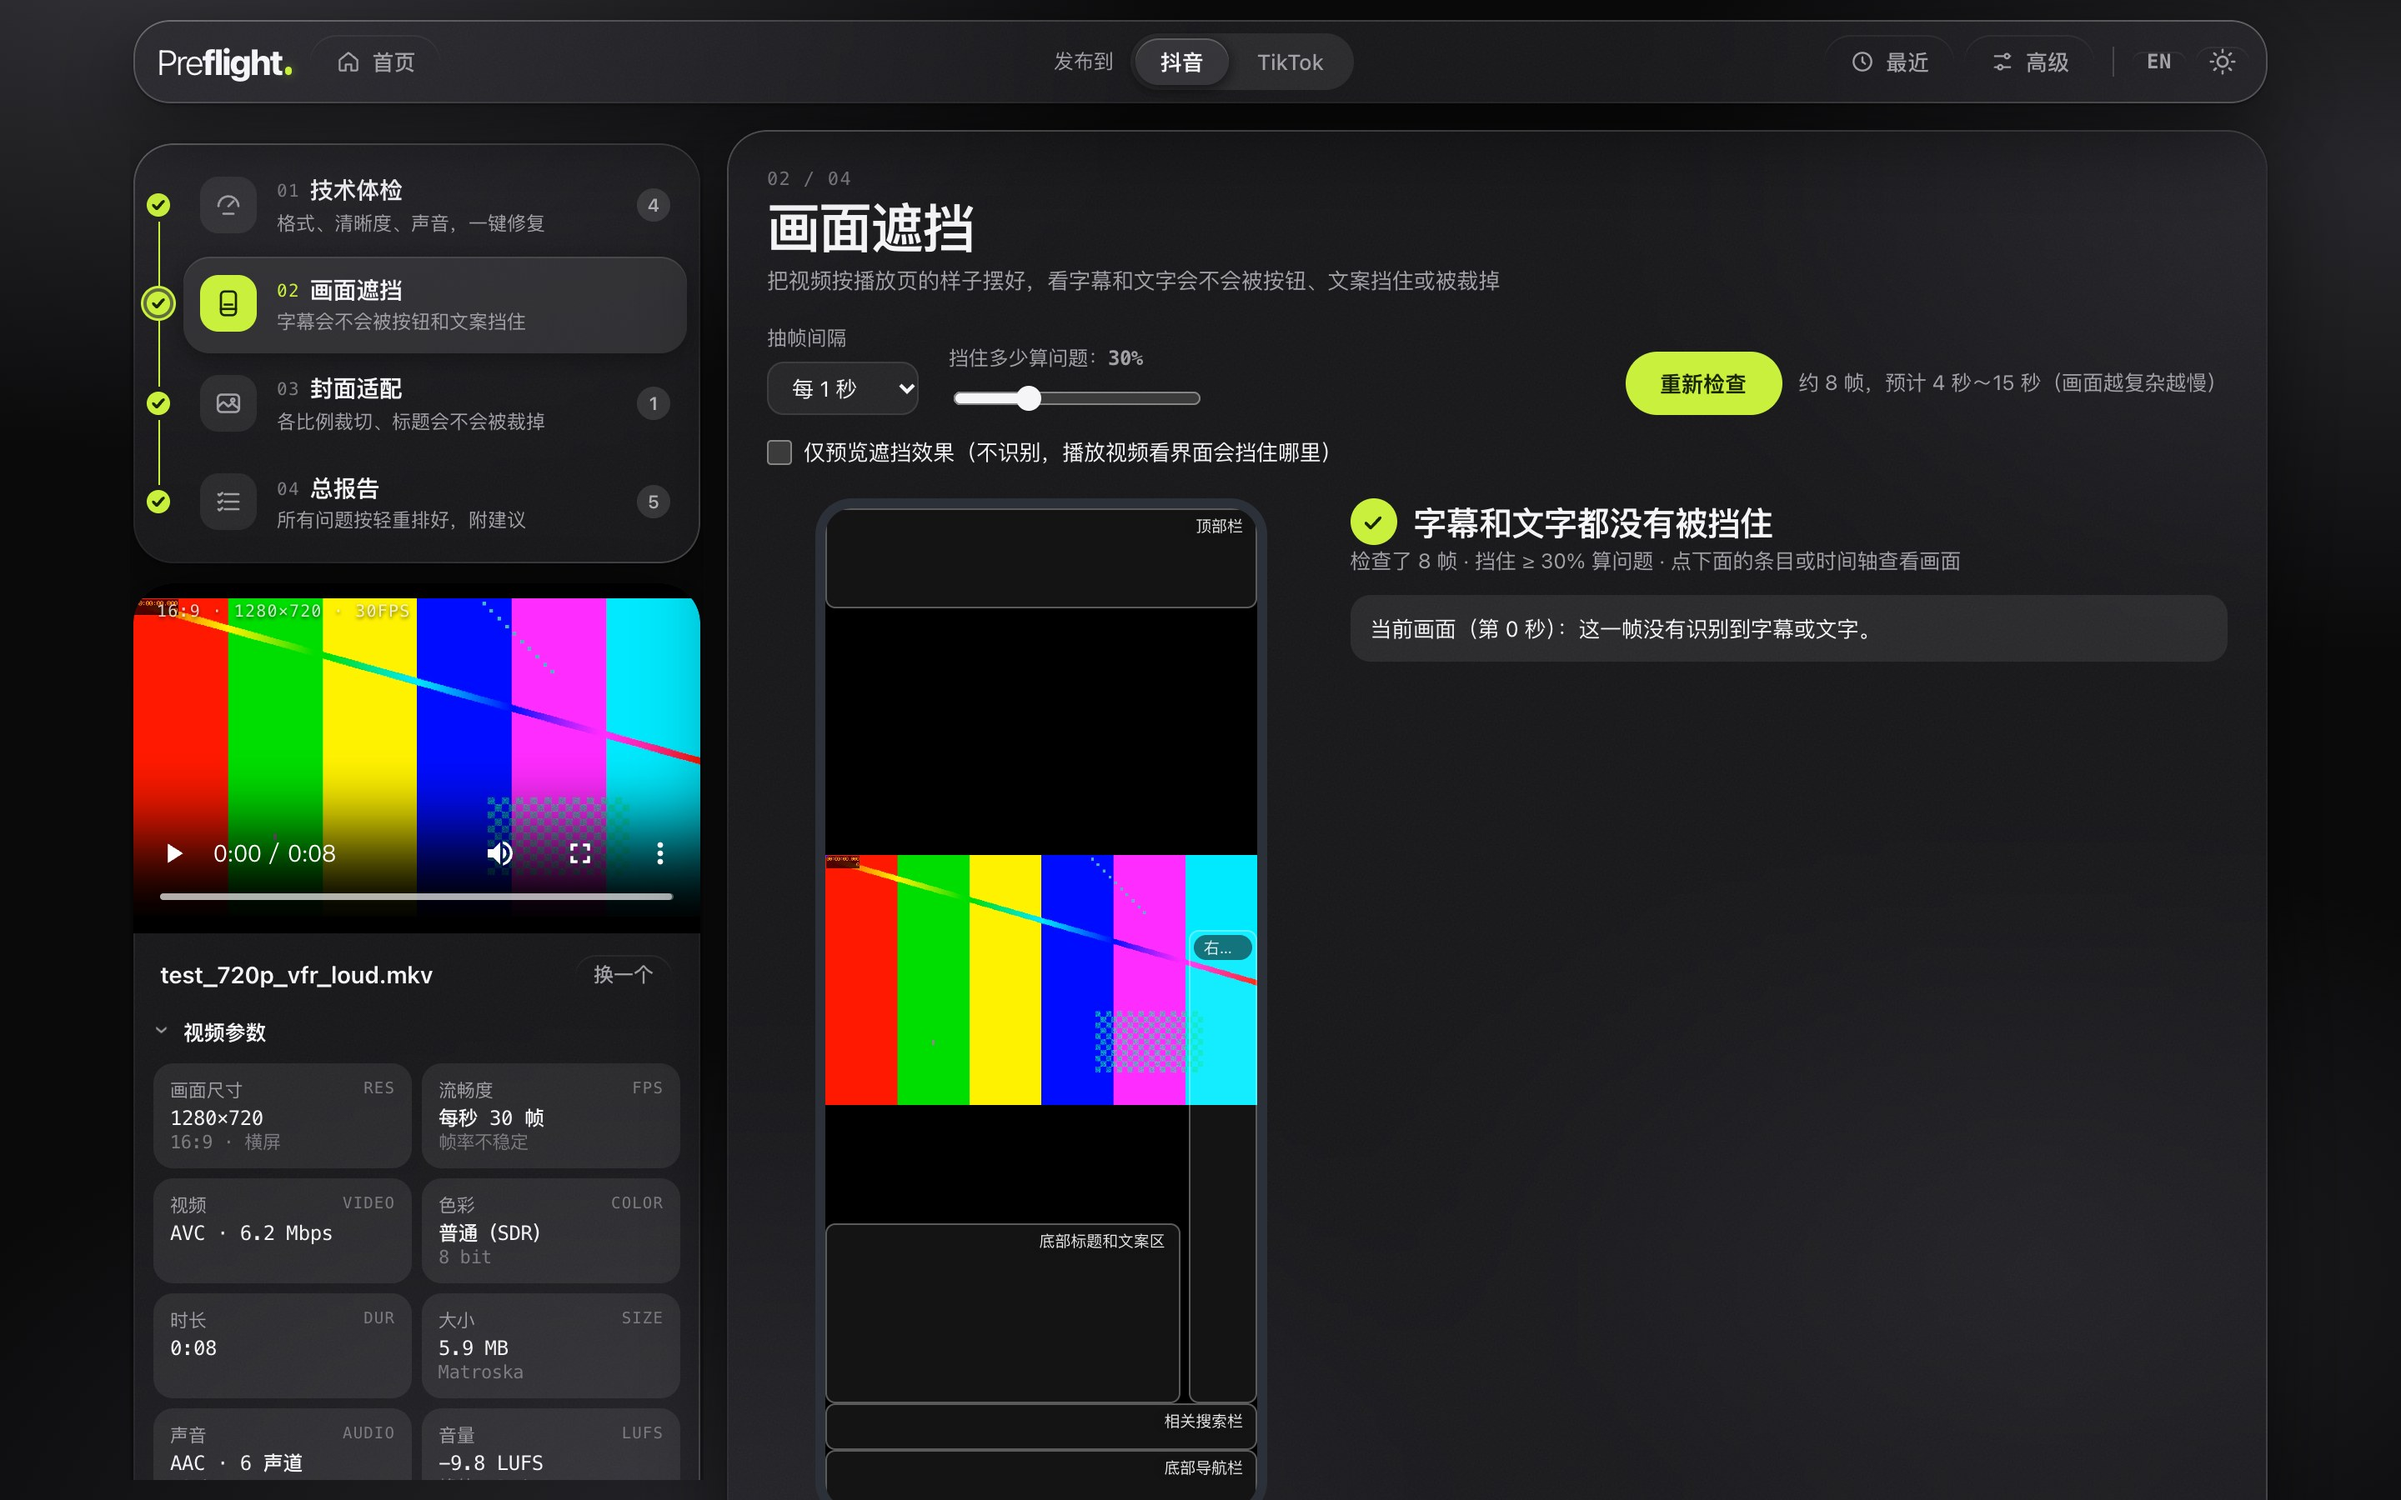
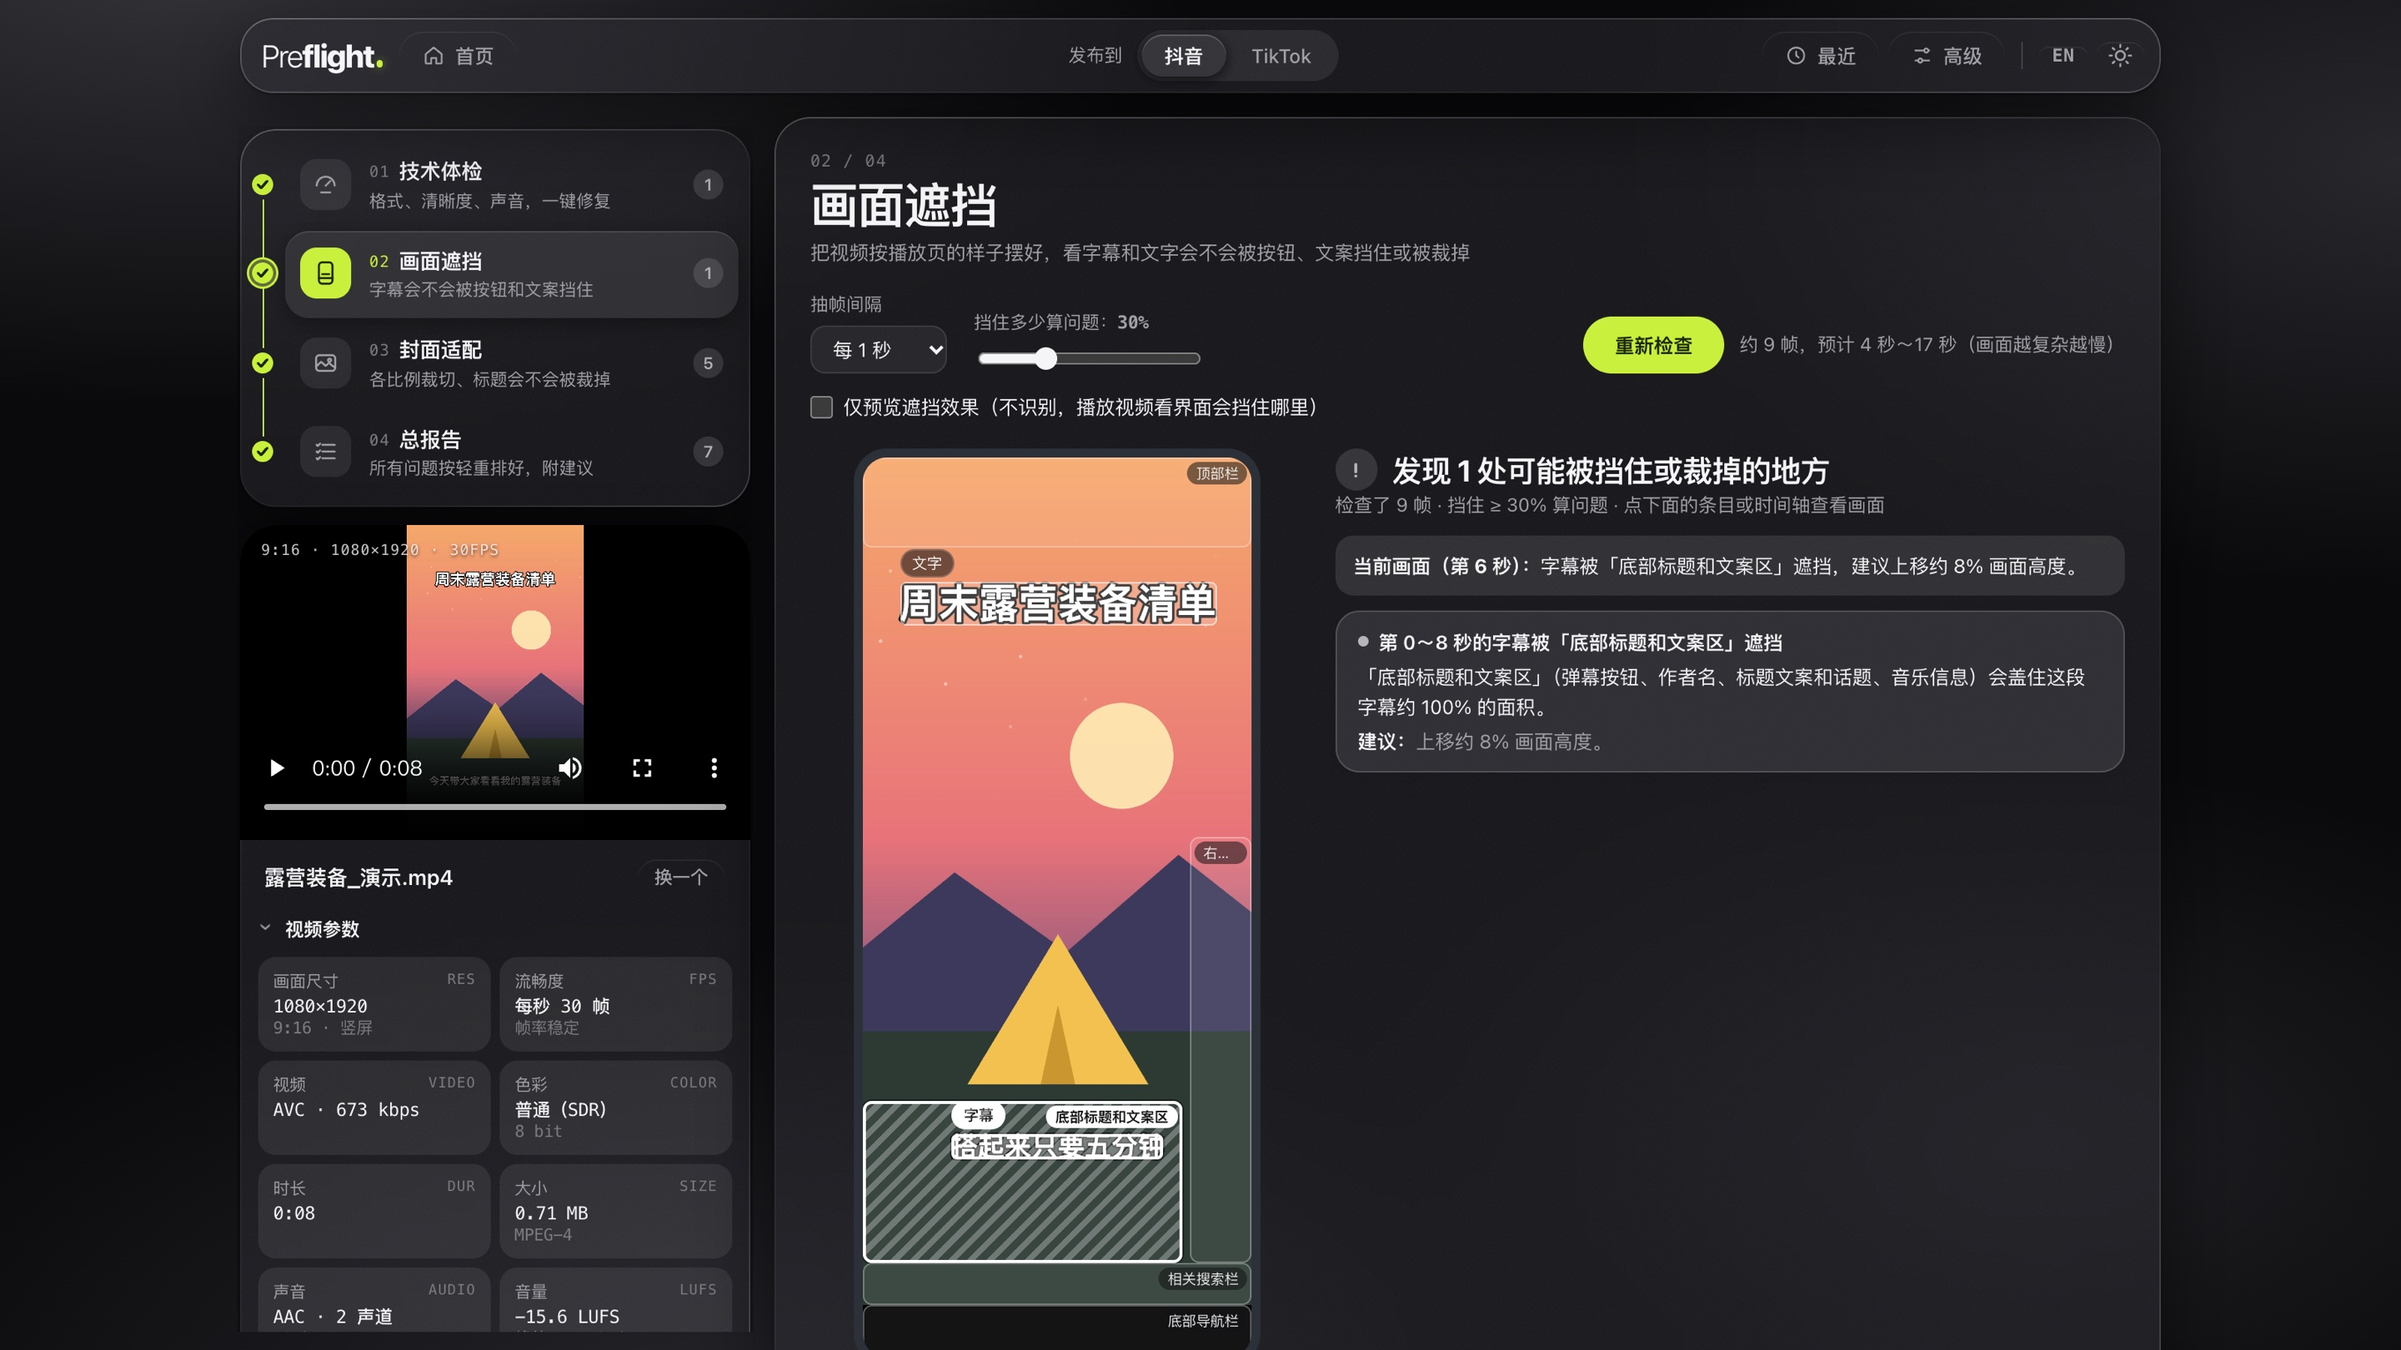
更新 README 截图（替换画面遮挡、总报告、技术体检并补上封面适配）及 14 项修复文案

diff --git a/index.html b/index.html
@@ -181,7 +181,7 @@
     </div>
     <!-- 能力卡片：编号 + 大数字（数字从配置和修复项里算，hero.js 填写并滚动）；离开首屏时三张卡片飞进左栏的三个步骤 -->
     <div class="hero-caps">
-      <div class="hero-cap glass"><span class="mono-tag">01 / 技术体检</span><div class="cap-stat"><b class="num" id="statFixes">13</b><small>项规格问题<br>可以一键修复</small></div></div>
+      <div class="hero-cap glass"><span class="mono-tag">01 / 技术体检</span><div class="cap-stat"><b class="num" id="statFixes">14</b><small>项规格问题<br>可以一键修复</small></div></div>
       <div class="hero-cap glass"><span class="mono-tag">02 / 画面遮挡</span><div class="cap-stat"><b class="num" id="statPlatforms">2</b><small>个平台的播放页布局<br>检查字幕会不会被挡</small></div></div>
       <div class="hero-cap glass"><span class="mono-tag">03 / 封面适配</span><div class="cap-stat"><b class="num" id="statRatios">3</b><small>种封面比例<br>同时裁切预览</small></div></div>
     </div>

diff --git a/README.md b/README.md
@@ -23,7 +23,7 @@
 
 | | 步骤 | 做什么 |
 |---|---|---|
-| 01 | **技术体检** | 读取格式、分辨率、帧率、码率、色彩、声音，按平台规则逐项判定，说明原因和改法。不合格的项可以**一键修复**（13 项修复 + 横屏转竖屏），直接下载 MP4，并和原片对比前后变化。 |
+| 01 | **技术体检** | 读取格式、分辨率、帧率、码率、色彩、声音及固定黑边，按平台规则逐项判定，说明原因和改法。不合格的项可以**一键修复**（14 项修复，含裁切黑边 + 横屏转竖屏），直接下载 MP4，并和原片对比前后变化。 |
 | 02 | **画面遮挡** | 把视频放进平台播放页的布局里，抽帧识别字幕和画面文字，标出会被按钮、文案挡住或被裁掉的时间段，并建议“上移约 8% 画面高度”这样的调整；识别不到的花字可以手动框选。 |
 | 03 | **封面适配** | 从视频选一帧或上传封面图，按平台用到的各个封面比例同时裁切预览，检查主体和标题有没有被裁掉、被角标挡住、够不够清晰，一次导出全部尺寸。 |
 | 04 | **总报告** | 三步的结果按“不通过 / 警告 / 提示”排好，每条附原因、修改建议和“去修复”按钮。 |
@@ -34,8 +34,8 @@
     <td width="50%"><img src="docs/images/occlusion-dark.jpg" alt="画面遮挡"><br><sub>画面遮挡：按平台播放页布局检查字幕</sub></td>
   </tr>
   <tr>
-    <td width="50%"><img src="docs/images/report-dark.jpg" alt="总报告"><br><sub>总报告：按轻重排好，附修改建议</sub></td>
-    <td width="50%"><img src="docs/images/features-dark.jpg" alt="首页功能介绍"><br><sub>首页：功能介绍、使用说明、数据与隐私</sub></td>
+    <td width="50%"><img src="docs/images/cover-dark.jpg" alt="封面适配"><br><sub>封面适配：多比例同时裁切预览，检查角标遮挡</sub></td>
+    <td width="50%"><img src="docs/images/report-dark.jpg" alt="总报告"><br><sub>总报告：三步结果按轻重排好，附修改建议</sub></td>
   </tr>
 </table>
 
